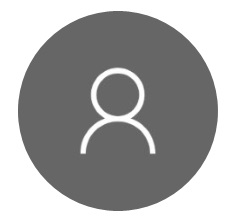
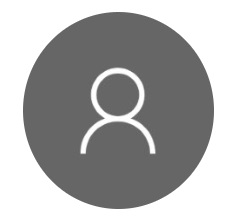
nt-auth | ログイン状態での表示を出し分け (主にheader部分)

diff --git a/public/css/style.css b/public/css/style.css
@@ -1,19 +1,21 @@
-body{ margin: 0;  }
-ul { padding: 0; }
-li { list-style: none;}
-p { margin: 0;}
-
-a {
-	text-decoration: none;
-}
-
-
 .w50 { width: 50px; }
 .relative { position: relative; }
-.headicon { 
+.header-icon { 
   position: absolute;
-  top: 20px;
+  top: 0;
   left: 45px;
+  width: 240px;
+  height: 80px;
+ }
+.header-icon .icon {
+  width:70px;
+  padding: 9px;
+}
+
+.header-icon .register, .header-icon .login {
+  color: #fff;
+  display: inline-block;
+  padding: 30px 20px;
  }
 
 .borderR30 {
@@ -48,9 +50,9 @@ a {
 
 .btn-line {
   height: 5px;
-  width: 40px;
+  width: 100%;
   background-color: #000;
-  margin: 7px 0;
+  margin: 9px 0;
   border-radius: 5px;
   background-color: rgb(255, 255, 255);
   transition: .5s;

diff --git a/public/css/mypage.css b/public/css/mypage.css
@@ -6,6 +6,12 @@
     float: left;
 }
 
+.auth-user-name {
+    padding: 20px 0;
+    text-align: center;
+    font-size: 20px;
+}
+
 .profile-img { 
     width: 200px;
 }

diff --git a/public/css/reset.css b/public/css/reset.css
@@ -1,0 +1,8 @@
+body{ margin: 0;  }
+ul { padding: 0; }
+li { list-style: none;}
+p { margin: 0;}
+a {
+	text-decoration: none;
+}
+input {border: none; outline: none;}

diff --git a/resources/views/layouts/front.blade.php b/resources/views/layouts/front.blade.php
@@ -5,8 +5,9 @@
     <meta name="viewport" content="width=device-width, initial-scale=1.0">
     <meta http-equiv="X-UA-Compatible" content="ie=edge">
     <link rel="icon" type="image/x-icon" href="{{asset('nectal-fav.ico')}}">
+    <link rel="stylesheet" href="{{asset('css/reset.css')}}">
     <link rel="stylesheet" href="{{asset('css/style.css')}}">
-    <script src="https://kit.fontawesome.com/27c85f9f7a.js" crossorigin="anonymous"></script>
+    <script src="https://kit.fontawesome.com/27c85f9f7a.js" crossorigin="anonymous" samesite="none"></script>
     @stack('css')
     <script type="text/javascript" src="{{asset('js/jquery-3.4.1.js')}}"></script>
     <script type="text/javascript" src="{{asset('js/main.js')}}"></script>
@@ -17,21 +18,38 @@
     <a href="{{route('index')}}">
         <img class="header-logo" src="{{asset('image/Nectal_logo.png')}}" alt="no_logo">
     </a>
-    <div class="headicon">
-            <img class="w50 borderR30" src="{{ asset('image/sample.jpg') }}">
+
+    <div class="header-icon">
+        @if (Auth::check())
+        <a href="{{route('mypage.index')}}">
+            <img class="icon" src="{{ asset('image/n-sample.png') }}">
+        </a>
+        @else
+        <a class="register" href="{{route('register')}}">{{ __('新規登録') }}</a>
+        <a class="login" href="{{route('login')}}">{{ __('ログイン') }}</a>
+        @endif
     </div>
+
     <div class="nav-btn">
         <div class="btn-line"></div>
         <div class="btn-line"></div>
         <div class="btn-line"></div>
     </div>
     <div class="nav-slidebar" style="display: none;">
+        @if(Auth::guest())
         <li><a href="{{route('index')}}">HOME</a></li>
+        @endif
+        @if(Auth::check())
+        <li><a href="{{route('logout')}}" onclick="event.preventDefault(); document.getElementById('logout-form').submit();">Logout</a></li>
         <li><a href="{{route('mypage.index')}}">MyPage</a></li>
         <li><a href="javascript: vaid(0);">お店の予約</a></li>
         <li><a href="javascript: vaid(0);">予約の確認</a></li>
+        @endif
         <li><a href="javascript: vaid(0);">お問い合わせ</a></li>
     </div>
+    <form id="logout-form" action="{{ route('logout') }}" method="POST" style="display: none;">
+            @csrf
+    </form>
     </header>
     <div class="container">
         @yield('content')

diff --git a/app/Http/Controllers/mypageController.php b/app/Http/Controllers/mypageController.php
@@ -1,11 +1,15 @@
 <?php
 
 namespace App\Http\Controllers;
-
+use Illuminate\Support\Facades\Auth;
 use Illuminate\Http\Request;
 
 class mypageController extends Controller
 {
+
+    public function __construct() {
+
+    }
     /**
      * Display a listing of the resource.
      *
@@ -13,7 +17,9 @@ class mypageController extends Controller
      */
     public function index()
     {
-        return view('mypage/index');
+        $this->user = Auth::user();
+        $user = $this->user;
+        return view('mypage/index', compact('user'));
     }
 
     /**
@@ -23,7 +29,9 @@ class mypageController extends Controller
      */
     public function create()
     {
-        return view('mypage/create');
+        $this->user = Auth::user();
+        $user = $this->user;
+        return view('mypage/create', compact('user'));
     }
 
     /**

diff --git a/resources/views/mypage/index.blade.php b/resources/views/mypage/index.blade.php
@@ -14,7 +14,9 @@
                         </div>
                         <div class="text">
                             <p>
-                                    女優の沢尻エリカ容疑者が、東京都内の自宅で合成麻薬のＭＤＭＡを所持していたとして、警視庁に逮捕されました。<br>「私の物に間違いない」と容疑を認めているということです。
+                                    The right thing… what is it?<br>
+                                    I wonder if you do the right thing…<br>
+                                    Does it really make everybody happy?
                             </p>
                         </div>
                         <div class="content-action">

diff --git a/resources/views/partials/mypage_left.blade.php b/resources/views/partials/mypage_left.blade.php
@@ -1,4 +1,9 @@
 <div class="left-block fl-left">
+    <div class="auth-user-name">
+        {{-- @if (Auth::guest()) --}}
+            {{$user['name']}}
+        {{-- @endif   --}}
+    </div>
     <img class="profile-img" src="{{asset('image/sample.jpg')}}">
     <div class="menu-area">
         <a href="{{route('mypage.index')}}" class="mymenu">HOME</a>

diff --git a/routes/web.php b/routes/web.php
@@ -12,7 +12,9 @@
 */
 
 Route::resource('/', 'storesController');
-Route::resource('mypage', 'mypageController');
+Route::group(['middleware' => ['auth']], function() {
+    Route::resource('mypage', 'mypageController');
+});
 
 Auth::routes();
 

diff --git a/config/app.php b/config/app.php
@@ -78,7 +78,7 @@ return [
     |
     */
 
-    'locale' => 'en',
+    'locale' => 'ja',
 
     /*
     |--------------------------------------------------------------------------

diff --git a/app/Http/Controllers/storesController.php b/app/Http/Controllers/storesController.php
@@ -13,7 +13,6 @@ class storesController extends Controller
      */
     public function index()
     {
-        //
         return view('top');
     }
 
